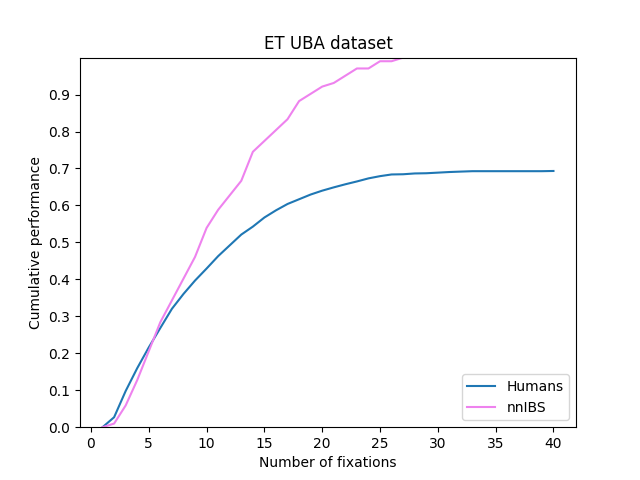
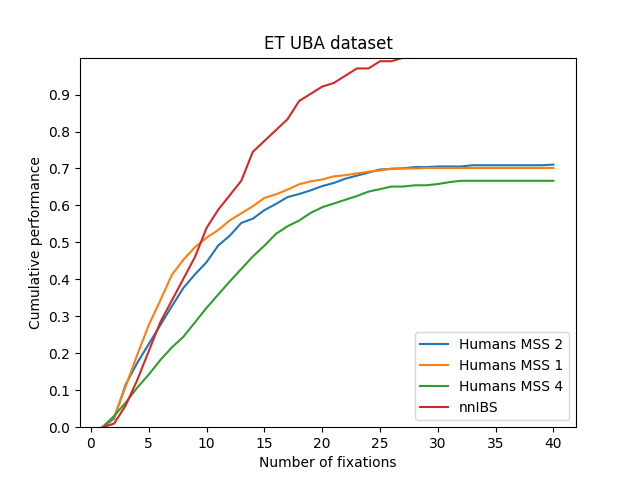
plot perf humanos dividido por MSS

diff --git a/Metrics/scripts/cumulative_performance.py b/Metrics/scripts/cumulative_performance.py
@@ -26,32 +26,39 @@ class CumulativePerformance:
         if self.null_object:
             return
 
-        humans_cumulative_performance = []
+        humans_cumulative_performance = {}
         humans_scanpaths_files = listdir(humans_scanpaths_dir)
         print('[Cumulative performance] Computing human mean for ' + self.dataset_name + ' dataset')
         for human_scanpaths_file in humans_scanpaths_files:
             human_scanpaths = utils.load_dict_from_json(path.join(humans_scanpaths_dir, human_scanpaths_file))
-            human_scanpaths = utils.get_random_subset(human_scanpaths, size=self.number_of_images)
+            human_scanpaths = utils.divide_by_memory_set_size(utils.get_random_subset(human_scanpaths, size=self.number_of_images))
+            for mss in human_scanpaths.keys():
+                if not mss in humans_cumulative_performance:
+                    humans_cumulative_performance[mss] = []
+                if self.dataset_name == 'Interiors':
+                    humans_cumulative_performance[mss].append(self.compute_human_cumulative_performance_interiors(human_scanpaths[mss]))
+                else:
+                    humans_cumulative_performance[mss].append(self.compute_cumulative_performance(human_scanpaths[mss]))
+        total_cumulative_performance = 0
+        amount_mss = 0
+        for mss in humans_cumulative_performance.keys():
             if self.dataset_name == 'Interiors':
-                humans_cumulative_performance.append(self.compute_human_cumulative_performance_interiors(human_scanpaths))
+                number_of_subjects = len(humans_scanpaths_files)
+                humans_cumulative_performance_mean = [np.empty(n) for n in np.repeat(number_of_subjects, 4)]
+                subject_index = 0
+                for subject_cumulative_performance in humans_cumulative_performance:
+                    humans_cumulative_performance_mean[0][subject_index] = subject_cumulative_performance[1][3]
+                    humans_cumulative_performance_mean[1][subject_index] = subject_cumulative_performance[1][5]
+                    humans_cumulative_performance_mean[2][subject_index] = subject_cumulative_performance[1][9]
+                    humans_cumulative_performance_mean[3][subject_index] = subject_cumulative_performance[1][13]
+                    subject_index += 1
             else:
-                humans_cumulative_performance.append(self.compute_cumulative_performance(human_scanpaths))
-        
-        # Interiors dataset caps the number of maximum saccades for humans at 2, 4, 8 and 12
-        # Therefore, cumulative performance is calculated at fixation number 3, 5, 9 and 13
-        if self.dataset_name == 'Interiors':
-            number_of_subjects = len(humans_scanpaths_files)
-            humans_cumulative_performance_mean = [np.empty(n) for n in np.repeat(number_of_subjects, 4)]
-            subject_index = 0
-            for subject_cumulative_performance in humans_cumulative_performance:
-                humans_cumulative_performance_mean[0][subject_index] = subject_cumulative_performance[3]
-                humans_cumulative_performance_mean[1][subject_index] = subject_cumulative_performance[5]
-                humans_cumulative_performance_mean[2][subject_index] = subject_cumulative_performance[9]
-                humans_cumulative_performance_mean[3][subject_index] = subject_cumulative_performance[13]
-                subject_index += 1
-        else:
-            humans_cumulative_performance_mean = np.mean(np.array(humans_cumulative_performance), axis=0)
-        self.subjects_cumulative_performance.append({'subject': 'Humans', 'cumulative_performance': humans_cumulative_performance_mean, 'color': humans_color})
+                humans_cumulative_performance_mean = np.mean(np.array(humans_cumulative_performance[mss]), axis=0)
+            self.subjects_cumulative_performance.append({'subject': 'Humans MSS '+str(mss), 'cumulative_performance': humans_cumulative_performance_mean, 'color': humans_color})
+            total_cumulative_performance += humans_cumulative_performance_mean
+            amount_mss += 1
+        total_cumulative_performance /= amount_mss
+        self.subjects_cumulative_performance.append({'subject': 'Humans', 'cumulative_performance': total_cumulative_performance, 'color': humans_color})
 
     def compute_cumulative_performance(self, scanpaths):
         """ At index i, this array holds the number of targets found in i or less fixations """
@@ -114,14 +121,17 @@ class CumulativePerformance:
             
         fig, ax = plt.subplots()
         for subject in self.subjects_cumulative_performance:
+            
             subject_name = subject['subject']
+            if subject_name == "Humans":
+                continue
             subject_cumulative_performance = subject['cumulative_performance'] 
 
-            if subject_name == 'Humans' and self.dataset_name == 'Interiors':
+            if subject_name == 'Humans MSS 1' and self.dataset_name == 'Interiors':
                 ax.boxplot(subject_cumulative_performance, notch=True, vert=True, whiskerprops={'linestyle': (0, (5, 10)), 'color': subject['color']}, capprops={'color': subject['color']}, \
                     boxprops={'color': subject['color']}, flierprops={'marker': '+', 'markeredgecolor': subject['color']}, medianprops={'color': subject['color']}, positions=[3, 5, 9, 13])
             else:
-                ax.plot(range(1, self.max_scanpath_length + 1), subject_cumulative_performance[1:], label=subject_name, color=subject['color'])
+                ax.plot(range(1, self.max_scanpath_length + 1), subject_cumulative_performance[1:], label=subject_name)
 
         ax.legend(loc='lower right')  
         dataset_name = self.dataset_name + ' dataset'

diff --git a/Metrics/scripts/utils.py b/Metrics/scripts/utils.py
@@ -128,6 +128,21 @@ def get_dirs(path_):
 
     return dirs
 
+def divide_by_memory_set_size(trials_dict):
+    scanpaths_per_mss = {}
+    for (key,val) in trials_dict.items():
+        if not "memory_set" in val:
+            mss = 1
+        else:
+            mss = len(val["memory_set"])
+        if not mss in scanpaths_per_mss:
+            scanpaths_per_mss[len(val["memory_set"])] = {key : val}
+        else:
+            scanpaths_per_mss[len(val["memory_set"])][key] = val
+    return scanpaths_per_mss
+
+
+
 def get_random_subset(trials_dict, size):
     if len(trials_dict) <= size:
         return trials_dict
